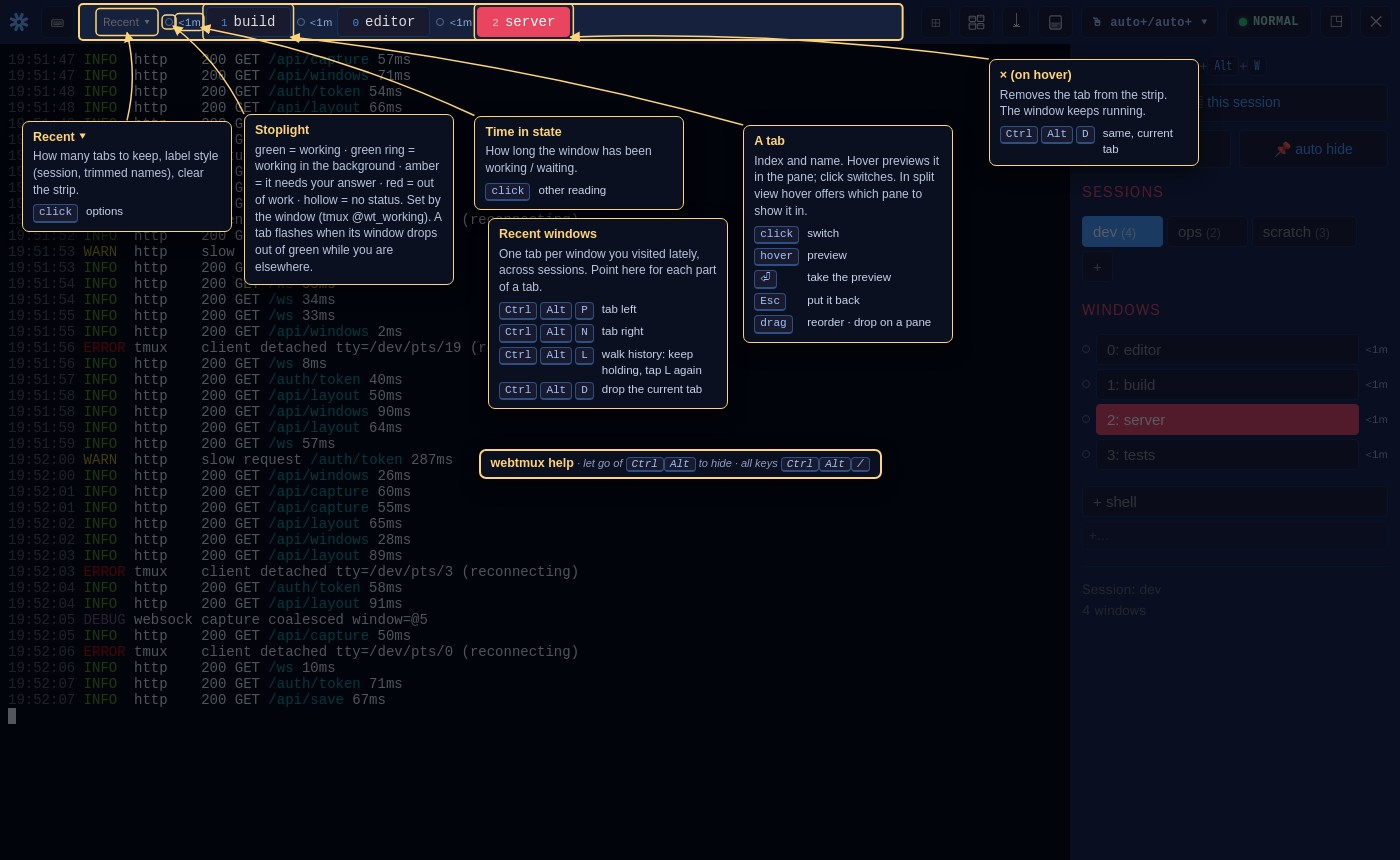
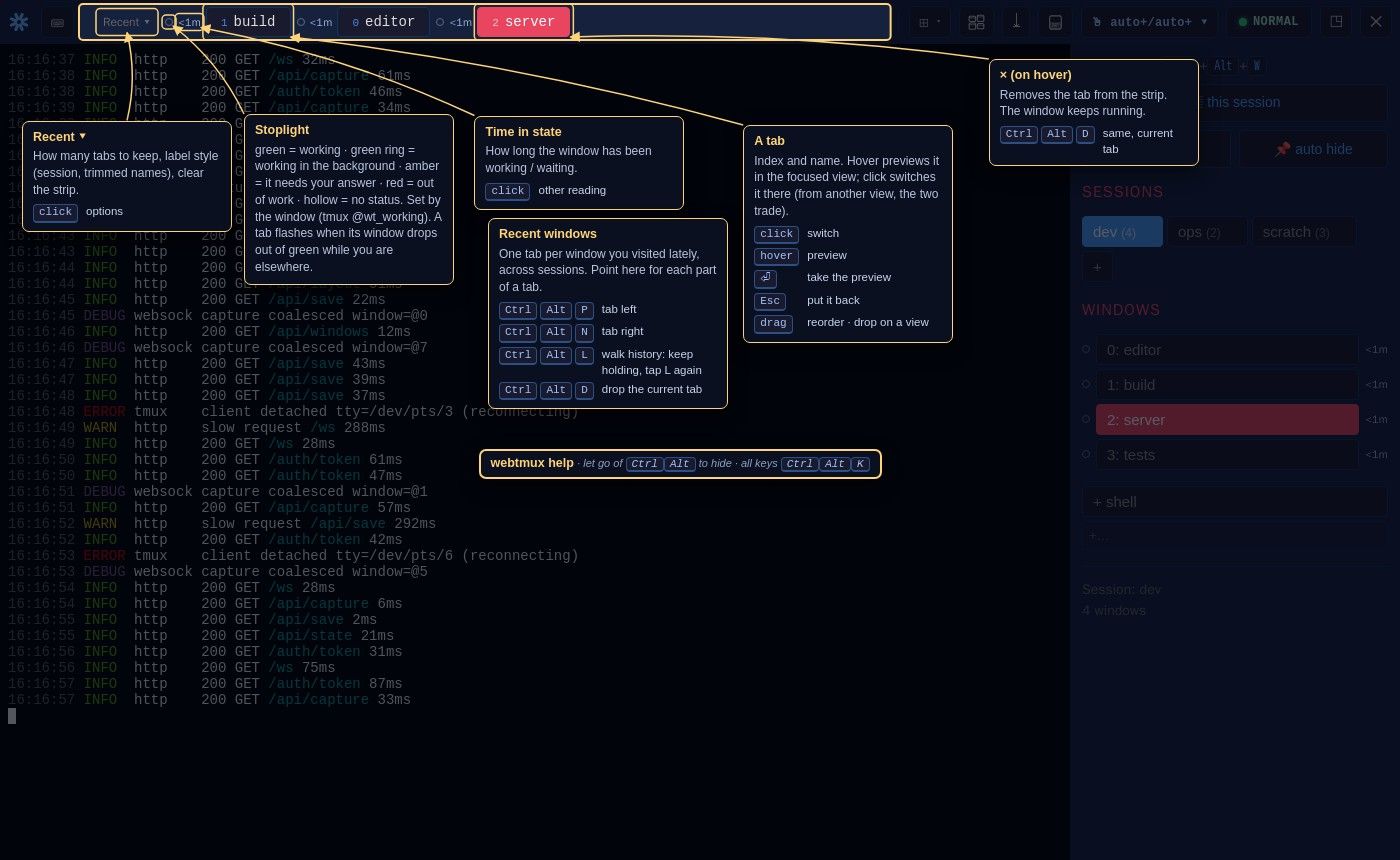
sidebar: drop the close-view button; refresh split screenshots
Each view's header strip has its own ✕ (and Ctrl+Alt+X closes the
focused view), so the sidebar's 'Close this view' button and its
webtmux-split-close event are removed.

Re-shot split-views.jpg (header stoplights), help-overlay.jpg (tab note
no longer mentions the old pane picker), split-view.gif (lingers on a
hovered tab so the holding view's throb shows) and state-persistence.gif.

diff --git a/bindata/static/js/components/sidebar.js b/bindata/static/js/components/sidebar.js
@@ -908,20 +908,12 @@ class WebtmuxSidebar extends LitElement {
     return !!(this.treeCollapsed && this.treeCollapsed.has(name));
   }
 
-  closeRegion() {
-    this.dispatchEvent(new CustomEvent('webtmux-split-close', {
-      bubbles: true, composed: true, detail: { unit: this.unit },
-    }));
-  }
 
-  // The sidebar keeps only the controls that shape the PANEL itself (hover vs
-  // side-by-side, pinned) plus the contextual close-region. Action buttons —
-  // split-add, Exposé, Picture-in-Picture, scroll mode, keyboard shortcuts — now
-  // live on the toolbar.
+  // The sidebar keeps only the controls that shape the PANEL itself (what it lists,
+  // hover vs side-by-side, pinned). Action buttons — split-add, Exposé,
+  // Picture-in-Picture, scroll mode, keyboard shortcuts — live on the toolbar, and
+  // closing a view is the ✕ on that view's own header strip (region-head.js).
   modeRow() {
-    // "Close this view" only makes sense while the screen is split (any view, the
-    // primary's included — see SplitManager.removeUnit).
-    const canClose = (this.unit?.manager?.units?.length || 0) > 1;
     // The two panel toggles share one line. They were full-width stacked buttons whose
     // labels spelled out the whole state ("▣ Hover over terminal", "📌 Pinned (stays
     // open)"), which cost two rows at the top of a panel whose actual job is the window
@@ -929,10 +921,6 @@ class WebtmuxSidebar extends LitElement {
     // the hover, where it is read once. Abbreviated to the word that differs, with the
     // full explanation moved to the shared hint (the same ~600ms tooltip the stoplight
     // dots use, so a hover here doesn't answer more slowly than a hover there).
-    //
-    // ✕ Close this region stays full-width below: it destroys something, and a
-    // destructive control should not sit shoulder-to-shoulder with two harmless toggles
-    // where a mis-aimed click lands on it.
     return html`
       <div class="mode-row">
         <div class="shortcut-hint">Toggle panel: <kbd>${MOD_KEYS[0]}</kbd>+<kbd>${MOD_KEYS[1]}</kbd>+<kbd>W</kbd></div>
@@ -974,15 +962,6 @@ class WebtmuxSidebar extends LitElement {
             ${this.pinned ? '📌 pinned' : '📌 auto hide'}
           </button>
         </div>
-        ${canClose ? html`
-          <button
-            class="mode-btn"
-            @click=${this.closeRegion}
-            title="Close this view; the next view takes the focus. Shortcut: ${chord('X')}"
-          >
-            ✕ Close this view
-          </button>
-        ` : ''}
       </div>
     `;
   }

diff --git a/resources/js/components/sidebar.js b/resources/js/components/sidebar.js
@@ -908,20 +908,12 @@ class WebtmuxSidebar extends LitElement {
     return !!(this.treeCollapsed && this.treeCollapsed.has(name));
   }
 
-  closeRegion() {
-    this.dispatchEvent(new CustomEvent('webtmux-split-close', {
-      bubbles: true, composed: true, detail: { unit: this.unit },
-    }));
-  }
 
-  // The sidebar keeps only the controls that shape the PANEL itself (hover vs
-  // side-by-side, pinned) plus the contextual close-region. Action buttons —
-  // split-add, Exposé, Picture-in-Picture, scroll mode, keyboard shortcuts — now
-  // live on the toolbar.
+  // The sidebar keeps only the controls that shape the PANEL itself (what it lists,
+  // hover vs side-by-side, pinned). Action buttons — split-add, Exposé,
+  // Picture-in-Picture, scroll mode, keyboard shortcuts — live on the toolbar, and
+  // closing a view is the ✕ on that view's own header strip (region-head.js).
   modeRow() {
-    // "Close this view" only makes sense while the screen is split (any view, the
-    // primary's included — see SplitManager.removeUnit).
-    const canClose = (this.unit?.manager?.units?.length || 0) > 1;
     // The two panel toggles share one line. They were full-width stacked buttons whose
     // labels spelled out the whole state ("▣ Hover over terminal", "📌 Pinned (stays
     // open)"), which cost two rows at the top of a panel whose actual job is the window
@@ -929,10 +921,6 @@ class WebtmuxSidebar extends LitElement {
     // the hover, where it is read once. Abbreviated to the word that differs, with the
     // full explanation moved to the shared hint (the same ~600ms tooltip the stoplight
     // dots use, so a hover here doesn't answer more slowly than a hover there).
-    //
-    // ✕ Close this region stays full-width below: it destroys something, and a
-    // destructive control should not sit shoulder-to-shoulder with two harmless toggles
-    // where a mis-aimed click lands on it.
     return html`
       <div class="mode-row">
         <div class="shortcut-hint">Toggle panel: <kbd>${MOD_KEYS[0]}</kbd>+<kbd>${MOD_KEYS[1]}</kbd>+<kbd>W</kbd></div>
@@ -974,15 +962,6 @@ class WebtmuxSidebar extends LitElement {
             ${this.pinned ? '📌 pinned' : '📌 auto hide'}
           </button>
         </div>
-        ${canClose ? html`
-          <button
-            class="mode-btn"
-            @click=${this.closeRegion}
-            title="Close this view; the next view takes the focus. Shortcut: ${chord('X')}"
-          >
-            ✕ Close this view
-          </button>
-        ` : ''}
       </div>
     `;
   }

diff --git a/screenshots/harness/verify-ux6.js b/screenshots/harness/verify-ux6.js
@@ -221,8 +221,8 @@ async function main() {
       count: btns.length,
       tops: btns.map((b) => b.getBoundingClientRect().top),
       texts: btns.map((b) => b.textContent.trim()),
-      // The destructive control must NOT be in the pair.
-      closeInPair: btns.some((b) => b.textContent.includes('Close this region')),
+      // Closing a view lives on the view's own header now, not in the sidebar.
+      closeInSidebar: [...rr.querySelectorAll('button')].some((b) => /Close this (view|region)/.test(b.textContent)),
     };
   });
   check('both panel toggles are in the pair', pair.count === 2, `${pair.count} buttons`);
@@ -230,7 +230,7 @@ async function main() {
     JSON.stringify(pair.tops));
   check('with the short labels', /float|mount/.test(pair.texts[0]) && /pinned|auto hide/.test(pair.texts[1]),
     pair.texts.join(' / '));
-  check('close-region is not one of them', pair.closeInPair === false);
+  check('the sidebar has no close-view button (the view header has it)', pair.closeInSidebar === false);
 
   // ---- 5. paste-trim in the rename input ------------------------------------
   const pasted = await sidebar((n, rr) => {

diff --git a/screenshots/harness/verify-split-view.js b/screenshots/harness/verify-split-view.js
@@ -313,6 +313,8 @@ async function main() {
   });
   if (row) { await page.mouse.move(row.x, row.y); await sleep(1200); }
   const throbSb = await mgr((m) => m.units.map((u) => u.region.classList.contains('holds-hovered')));
+  check('the split screen\'s sidebar has no close-view button (each view header has ✕)',
+    await mgr((m) => ![...m.sidebar.renderRoot.querySelectorAll('button')].some((b) => /Close this/.test(b.textContent))));
   check('hovering a sidebar row for a window another view shows throbs that view',
     !!row && throbSb.every((t, i) => t === (i === row.n)), `${JSON.stringify(row)} ${JSON.stringify(throbSb)}`);
   await page.mouse.move(400, 500);

diff --git a/screenshots/harness/driver-gifs.js b/screenshots/harness/driver-gifs.js
@@ -309,7 +309,9 @@ const clearLights = () => {
     });
     if (tb) {
       await glide({ x: tb.x + tb.width / 2, y: tb.y + tb.height / 2 }, 14);
-      await sleep(700);
+      // Linger: the view that already shows it throbs its frame while the preview
+      // sits in the focused view.
+      await sleep(2200);
       await page.mouse.click(tb.x + tb.width / 2, tb.y + tb.height / 2);
       await sleep(1300);
     }

diff --git a/bindata/static/js/split-manager.js b/bindata/static/js/split-manager.js
@@ -3052,9 +3052,6 @@ export class SplitManager {
         }
       }, { passive: false, capture: true });
     }
-
-    // The sidebar's close-region × dispatches this (composed, cross shadow DOM).
-    window.addEventListener('webtmux-split-close', (e) => this.removeUnit(e.detail?.unit || this.focusedUnit));
   }
 }
 

diff --git a/resources/js/split-manager.js b/resources/js/split-manager.js
@@ -3052,9 +3052,6 @@ export class SplitManager {
         }
       }, { passive: false, capture: true });
     }
-
-    // The sidebar's close-region × dispatches this (composed, cross shadow DOM).
-    window.addEventListener('webtmux-split-close', (e) => this.removeUnit(e.detail?.unit || this.focusedUnit));
   }
 }
 

diff --git a/README.md b/README.md
@@ -193,7 +193,7 @@ Keep an eye on specific windows while you work in others, and jump to them quick
 
 ### Split Views (Not tmux Panes)
 
-![Split view replayed: Ctrl+Alt+Enter adds a second live view (auto-picking the most recent unseen window), the divider drags to resize, Ctrl+Alt+X closes it](screenshots/split-view.gif)
+![Split view replayed: the ⊞ ▾ menu splits left | right, then top / bottom, then adds a full-width view; hovering a recents tab whose window another view shows previews it in the focused view while that view throbs its frame; a divider drags to resize; each view's ✕ closes it](screenshots/split-view.gif)
 
 **tmux panes subdivide a window, so they travel with it. Split views divide the browser, and each view is independent.** Every view shows any window from any session, and changing one never moves the others. Panes still work as usual: a window with panes shows them all inside whichever view displays it.
 
